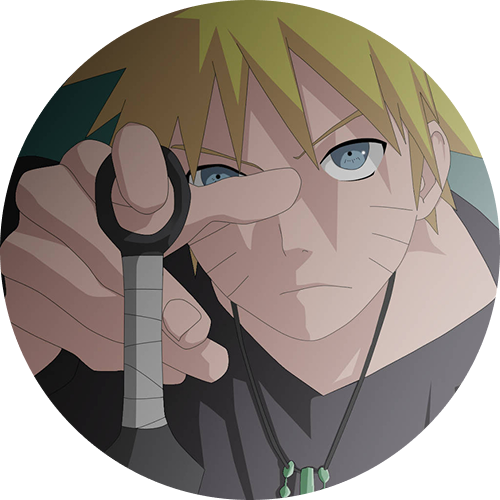
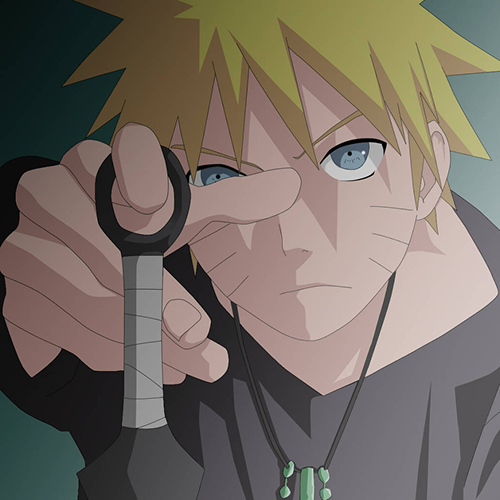
updated

diff --git a/css/style.css b/css/style.css
@@ -1,3 +1,33 @@
+@import url('https://fonts.googleapis.com/css2?family=Sora:wght@100..800&display=swap');
+
 body{
-    background-color: goldenrod;
+    background-color: #172e1a;
+}
+
+html, body{
+    margin: 0;
+    padding: 0;
+}
+
+header{
+    text-align: center;
+    background-color: #2e4230;
+    padding: 20px;
+}
+
+header img{
+    width: 300px;
+    height: 300px;
+    border: 7px solid #172e1a;
+    border-radius: 50%;
+}
+
+header h1{
+    font-family: "Sora", sans-serif;
+    font-optical-sizing: auto;
+    font-weight: 500;
+    font-style: normal;
+    font-size: 50px;
+    margin: 10px 0 20px;
+    color: #172e1a;
 }

diff --git a/index.html b/index.html
@@ -4,13 +4,15 @@
     <meta charset="UTF-8">
     <meta name="viewport" content="width=device-width, initial-scale=1.0">
     <title>Naruto's Website</title>
-    <link rel="icon" href="./img/narutoicon.png">
+    <link rel="icon" href="./img/narutoicon.png" style="border-radius: 50%;">
     <link rel="stylesheet" href="./css/style.css?v=2">
 </head>
 <body>
     <!-- header -->
     <header>
 
+        <img src="./img/narutopfp.png" alt="NarutroPFP">
+        <h1>Naruto</h1>
 
     </header>
 
